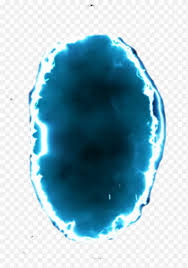
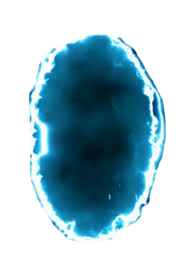
修好碰撞了

diff --git a/src/main/java/com/example/finalproject/Level1Controller.java b/src/main/java/com/example/finalproject/Level1Controller.java
@@ -71,7 +71,7 @@ public class Level1Controller {
     private final Set<KeyCode> keys = new HashSet<>();
 
     // ================= 攝影機 =================
-    private double cameraX = 0;
+    private double cameraX = GameConfig.TILE_SIZE;
 
     // ================= FPS 限制 =================
     // 40 FPS = 1 秒 40 幀
@@ -87,15 +87,15 @@ public class Level1Controller {
 // 9 = 終點
 
     private final int[][] map = {
-            {0,0,0,0,0,0,0,0,0,0,0,0,0,0,0,0,0,0,0,0,0,0,0,0,0,0,0},
-            {0,0,0,0,0,0,0,0,0,0,0,0,0,0,0,0,0,0,0,0,0,0,0,0,0,0,0},
-            {0,0,0,0,0,0,0,0,0,0,0,0,0,0,0,0,0,0,0,0,0,0,0,0,0,0,0},
-            {0,0,0,0,0,0,0,0,0,0,0,0,0,0,0,0,0,0,0,0,0,0,0,0,0,0,0},
-            {0,0,0,4,4,4,4,4,4,4,4,0,0,0,0,0,0,0,0,0,0,0,0,0,0,0,0},
-            {0,0,0,0,0,0,0,0,0,0,0,0,0,0,0,0,0,0,0,0,0,0,0,0,0,0,0},
-            {0,0,0,0,0,0,0,0,0,0,0,0,0,0,0,0,0,0,0,0,0,0,0,0,0,0,0},
-            {0,0,0,0,0,0,8,0,0,0,0,0,0,0,0,0,0,0,0,0,0,0,0,0,9,0,0},
-            {1,1,1,1,1,1,1,1,1,1,1,1,1,0,1,1,1,1,1,1,1,1,1,1,1,1,1}
+            {5,0,0,0,0,0,0,0,0,0,0,0,0,0,0,0,0,0,0,0,0,0,0,0,0,0,5},
+            {5,0,0,0,0,0,0,0,0,0,0,0,0,0,0,0,0,0,0,0,0,0,0,0,0,0,5},
+            {5,0,0,0,0,0,0,0,0,0,0,0,0,0,0,0,0,0,0,0,0,0,0,0,0,0,5},
+            {5,0,0,0,0,0,0,0,0,0,0,0,0,0,0,0,0,0,0,0,0,0,0,0,0,0,5},
+            {5,0,0,4,4,4,4,4,4,4,4,0,0,0,0,0,0,0,0,0,0,0,0,0,0,0,5},
+            {5,0,0,0,0,0,0,0,0,0,0,0,0,0,0,0,0,0,0,0,0,0,0,0,0,0,5},
+            {5,0,0,0,0,0,0,0,0,0,0,0,0,0,0,0,0,0,0,0,0,0,0,0,0,0,5},
+            {5,0,0,0,0,0,8,0,0,0,0,0,0,0,0,0,0,0,0,0,0,0,0,0,9,0,5},
+            {5,1,1,1,1,1,1,1,1,1,1,1,1,0,1,1,1,1,1,1,1,1,1,1,1,1,5}
     };
 
     // ================= 初始化 =================
@@ -293,7 +293,7 @@ public class Level1Controller {
         stone1 = new Image(getClass().getResourceAsStream("/image/stone1.png"));
         stone2 = new Image(getClass().getResourceAsStream("/image/stone2.png"));
         stone3 = new Image(getClass().getResourceAsStream("/image/stone3.png"));
-        hardBlockImage = new Image(getClass().getResourceAsStream("/image/grass_dark.png"));
+        hardBlockImage = new Image(getClass().getResourceAsStream("/image/stone0.png"));
         specialBlockImage = new Image(getClass().getResourceAsStream("/image/grass_light.png"));
         bridgeImage = new Image(getClass().getResourceAsStream("/image/bridge.png"));
 
@@ -428,12 +428,12 @@ public class Level1Controller {
     // ================= 讀取鍵盤輸入 =================
     private void handleInput() {
         // A 鍵向左加速，Mario 不會超出左邊界
-        if (keys.contains(KeyCode.A) && mario.x > 3) {
+        if (keys.contains(KeyCode.A)) {
             mario.velocityX -= GameConfig.ACCELERATION;
         }
 
         // D 鍵向右加速，Mario 不會超出地圖右邊界
-        if (keys.contains(KeyCode.D) && mario.x < map[0].length * GameConfig.TILE_SIZE - GameConfig.PLAYER_WIDTH - 3) {
+        if (keys.contains(KeyCode.D)){
             mario.velocityX += GameConfig.ACCELERATION;
         }
 
@@ -555,7 +555,6 @@ public class Level1Controller {
         }
     }
 
-
     private void moveX(Entity entity) {
         // 限制最大水平速度
         if (entity.velocityX > GameConfig.maxVelocityX) {
@@ -578,15 +577,13 @@ public class Level1Controller {
         entity.y += entity.velocityY;
         // 持續增加向下速度，達到一定程度時停止加速
         //速度上限之後要整活後可以移除
-        if (entity.velocityY < GameConfig.maxVelocityY) {
+        if (!entity.onGround && entity.velocityY < GameConfig.maxVelocityY) {
             entity.velocityY += GameConfig.GRAVITY;
         }
 
         // 方塊碰撞檢測
         handleYCollision(entity);
     }
-
-
 
     // ================= 碰撞檢測 =================
     private boolean isSolidTile(int col, int row) {
@@ -629,34 +626,61 @@ public class Level1Controller {
     }
 
     private void handleYCollision(Entity entity) {
-        // 更新 mapX mapY 座標
         int left = (int) (entity.x / GameConfig.TILE_SIZE);
         int right = (int) ((entity.x + GameConfig.PLAYER_WIDTH - 1) / GameConfig.TILE_SIZE);
         int top = (int) (entity.y / GameConfig.TILE_SIZE);
-        int bottom = (int)((entity.y + GameConfig.PLAYER_HEIGHT - 1) / GameConfig.TILE_SIZE);
+        int bottom = (int) ((entity.y + GameConfig.PLAYER_HEIGHT - 1) / GameConfig.TILE_SIZE);
 
-        // 避免空中跳躍，可刪
+        boolean wasOnGround = entity.onGround;
+
+        // 先假設這幀沒有落地
         entity.onGround = false;
+//        System.out.println(entity.);
+        // 往上撞
+        if (entity.velocityY < 0) {
 
+            if (isSolidTile(left, top) || isSolidTile(right, top)) {
 
-        //遍歷周圍格子
-        for (int tx = left; tx <= right; tx++){
-            if (isSolidTile(tx, top) && entity.velocityY < 0){
                 entity.y = (top + 1) * GameConfig.TILE_SIZE;
                 entity.velocityY = 0;
-                if (entity instanceof Player player){
+
+                if (entity instanceof Player player) {
+
                     player.jumpLevel = 4;
-                    hitBlockFromBelow(top, tx);
+
+                    if (isSolidTile(left, top)) {
+                        hitBlockFromBelow(top, left);
+                    }
+                    else {
+                        hitBlockFromBelow(top, right);
+                    }
                 }
-            }else if (isSolidTile(tx, bottom) && entity.velocityY > 0){
+            }
+        }
+
+        // 往下落
+        else if (entity.velocityY > 0) {
+            if (entity instanceof Player player) {System.out.println("mario velo"+ player.velocityY);}
+            if (isSolidTile(left, bottom) || isSolidTile(right, bottom)) {
+
                 entity.y = bottom * GameConfig.TILE_SIZE - GameConfig.PLAYER_HEIGHT;
                 entity.velocityY = 0;
-                if (entity instanceof Player player){
-                    player.jumpLevel = 0;
-                }
                 entity.onGround = true;
-                playLandingSound();
+
+                if (entity instanceof Player player) {
+
+                    player.jumpLevel = 0;
+                    System.out.println("!wasonground"+!wasOnGround);
+                    // 只有真正落地瞬間播放一次
+                    if (!wasOnGround) {
+                        player.onGround = true;
+                        playLandingSound();
+                    }
+                }
             }
+        }
+        else{
+            entity.onGround = true;
         }
     }
 
@@ -665,9 +689,9 @@ public class Level1Controller {
         // Mario 尚未走到指定位置前，鏡頭不移動
 
         //稍微讓Mario 可以左右移動，可用可不用
-        if (cameraX < mario.x - 380 && cameraX < map[0].length*GameConfig.TILE_SIZE - GameConfig.WINDOW_WIDTH -6) {
+        if (cameraX < mario.x - 380 && cameraX < (map[0].length - 1)*GameConfig.TILE_SIZE - GameConfig.WINDOW_WIDTH - GameConfig.maxVelocityX) {
             cameraX += Math.max((mario.x - 380 - cameraX) * 0.3, 2);
-        } else if (cameraX > mario.x - 370 && cameraX > 0) {
+        } else if (cameraX > mario.x - 370 && cameraX > GameConfig.TILE_SIZE+GameConfig.maxVelocityX){
             cameraX += Math.min((mario.x - 370 - cameraX) * 0.3, -2);
         }
 

diff --git a/src/main/java/com/example/finalproject/GameConfig.java b/src/main/java/com/example/finalproject/GameConfig.java
@@ -21,7 +21,7 @@ public class GameConfig {
     public static final double maxVelocityY = -GameConfig.JUMP_POWER; // 最大垂直速度
     // 物理
     public static final double GRAVITY = 5.3;
-    public static final double MOVE_SPEED = 10.5;
+//    public static final double MOVE_SPEED = 10.5;
     public static final double JUMP_POWER = -40.7;
 
     // 攝影機

diff --git a/src/main/java/com/example/finalproject/Entity.java b/src/main/java/com/example/finalproject/Entity.java
@@ -9,7 +9,7 @@ public class Entity {
 
     double velocityX, velocityY;
 
-    boolean onGround = true;
+    boolean onGround;
 
     ImageView view;
 
